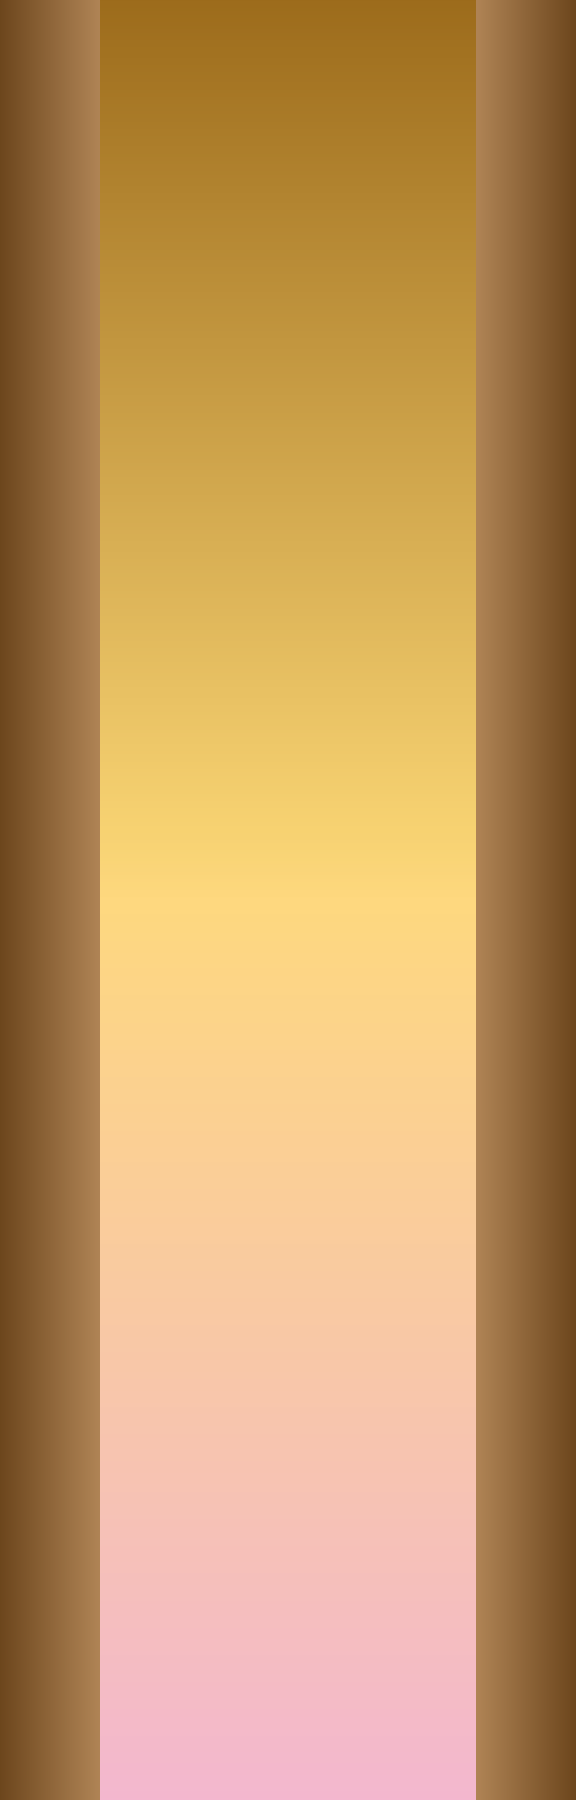
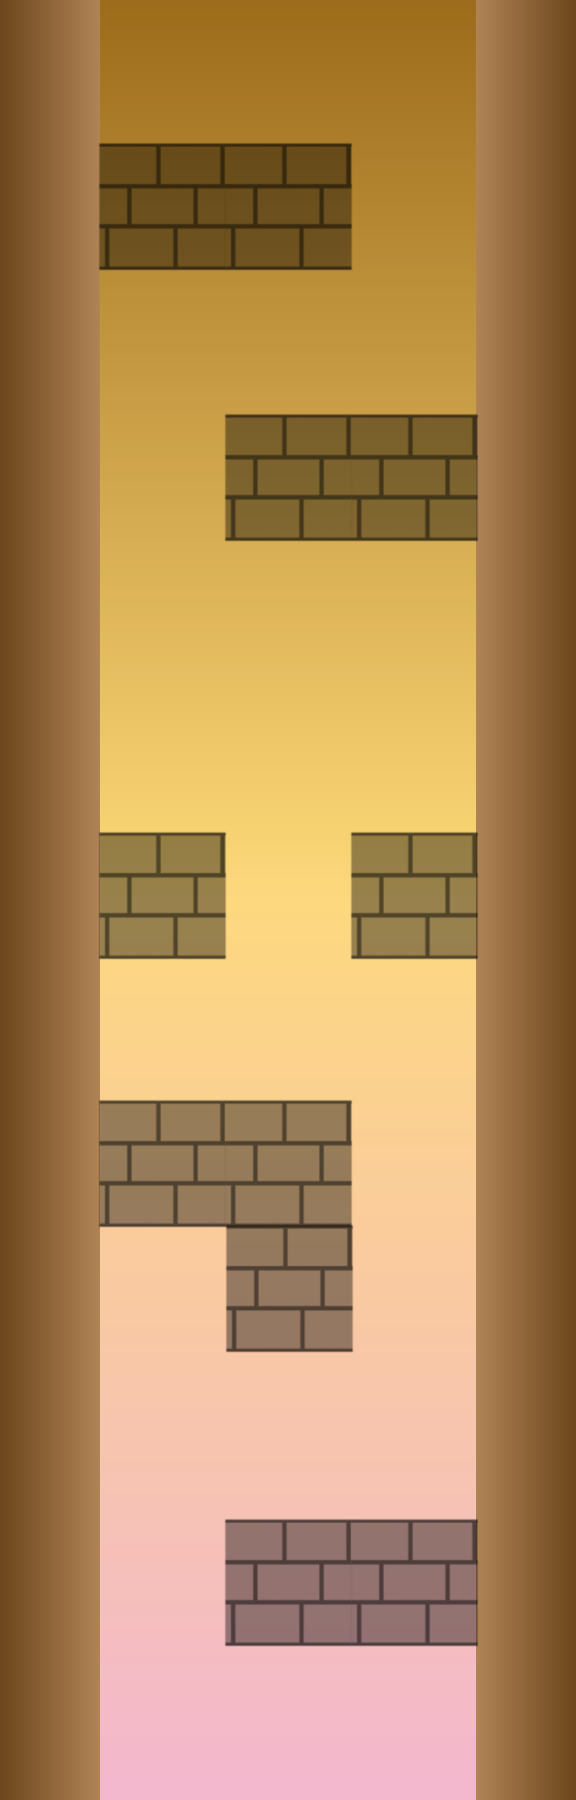
commit : 11
캐릭터 떨어지는 거 구현
캐릭터와 바닥 충돌체크

diff --git a/main_state.py b/main_state.py
@@ -11,7 +11,6 @@ from character import Chatacter
 from grass import Grass
 from Tile_1 import Tile
 
-
 import title_state
 
 name = "MainState"
@@ -40,13 +39,21 @@ class Enemy:
 
 def enter():
     global character, grass, enemy1, tile1
+    xpos = [139.5, 139.5, 139.5, 234.5, 234.5, 234.5, 234.5, 234.5, 329.5, 329.5, 329.5, 329.5, 424, 424, 424, 424]
+    ypos = [1500, 1000, 900, 1500, 1000, 1000, 500, 200, 1500 ,900, 500, 200, 1200, 900, 500, 200]
+
     character = Chatacter()
     grass = Grass()
     enemy1 = Enemy()
-    tile1 = Tile()
     game_world.add_object(grass, 0)
     game_world.add_object(character, 1)
-    game_world.add_object(tile1, 2)
+
+    tile1 = [Tile() for i in range(16)]
+    for i in range(16):
+        tile1[i].x = xpos[i]
+        tile1[i].y = ypos[i]
+    game_world.add_objects(tile1, 1)
+
 
 
 def exit():
@@ -72,9 +79,12 @@ def handle_events():
 def update():
     for game_object in game_world.all_objects():
         game_object.update()
-    if collide(character, tile1):
-        #tile1.remove()
-        game_world.remove_object(tile1)
+    for tile in tile1:
+        if collide(tile, character):
+            character.stop()
+            break
+        else:
+            character.dirY = -5
 
 def draw():
     clear_canvas()

diff --git a/character.py b/character.py
@@ -50,6 +50,7 @@ class IdleState:
 
     @staticmethod
     def do(character):
+        character.y += character.dirY
         if (character.frameY == 4):
             character.frameX = (character.frameX + 1) % 4
             character.x += character.dir * 10
@@ -79,6 +80,7 @@ class RunState:
 
     @staticmethod
     def do(character):
+        character.y += character.dirY
         if (character.frameY == 4):
             character.frameX = (character.frameX + 1) % 4
             character.x += character.dir * 10
@@ -139,10 +141,10 @@ next_state_table = {
 
 class Chatacter:
     def __init__(self):
-        self.x, self.y = 0, 200
+        self.x, self.y = 120, 800
         self.frameX, self.frameY = 2, 3
         self.image = load_image('character.png')
-        self.dir = 0
+        self.dir, self.dirY = 0, -5
         self.event_que = []
         self.cur_state = IdleState
         self.cur_state.enter(self, None)
@@ -171,3 +173,5 @@ class Chatacter:
             key_event = key_event_table[(event.type, event.key)]
             self.add_event(key_event)
 
+    def stop(self):
+        self.dirY = 0

diff --git a/Tile_1.py b/Tile_1.py
@@ -9,15 +9,14 @@ class Tile:
     def __init__(self):
         if Tile.image == None:
             Tile.image = load_image('tile_2.png')
-        self.x, self.y = 300, 100
+        self.x, self.y = 0,0
 
     def draw(self):
-        self.image.draw(self.x, self.y,100,100)
+        self.image.draw(self.x, self.y, 95, 95)
         draw_rectangle(*self.get_bb())
 
     def get_bb(self):
-        return self.x - 50, self.y - 50, self.x + 50, self.y + 50
+        return self.x - 42.5, self.y - 42.5, self.x + 42.5, self.y + 42.5
 
     def update(self):
-        if self.x < 25 or self.x > 1600 - 25:
-            game_world.remove_object(self)
+        pass

diff --git a/grass.py b/grass.py
@@ -3,7 +3,13 @@ from pico2d import *
 class Grass:
     def __init__(self):
         self.image = load_image('background.png')
+
     def update(self):
         pass
+
     def draw(self):
-        self.image.draw(280, 0)
+        self.image.draw(280, -100)
+        draw_rectangle(*self.get_bb())
+
+    def get_bb(self):
+        return 0, 0, 90, 1800

diff --git a/game_world.py b/game_world.py
@@ -1,7 +1,7 @@
 
 # layer 0: Background Objects
 # layer 1: Foreground Objects
-objects = [[],[], []]
+objects = [[],[],[]]
 
 
 def add_object(o, layer):
